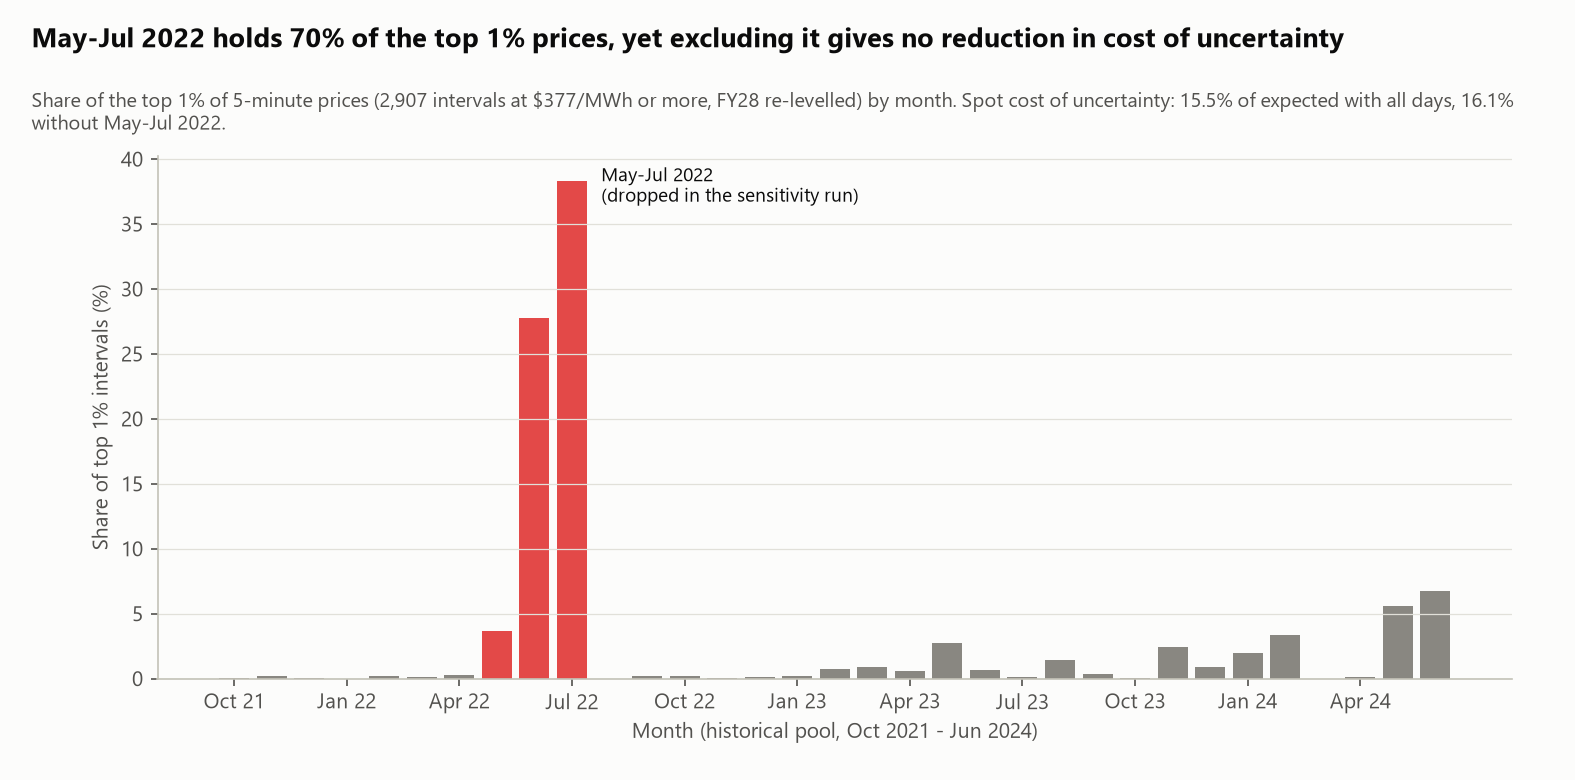
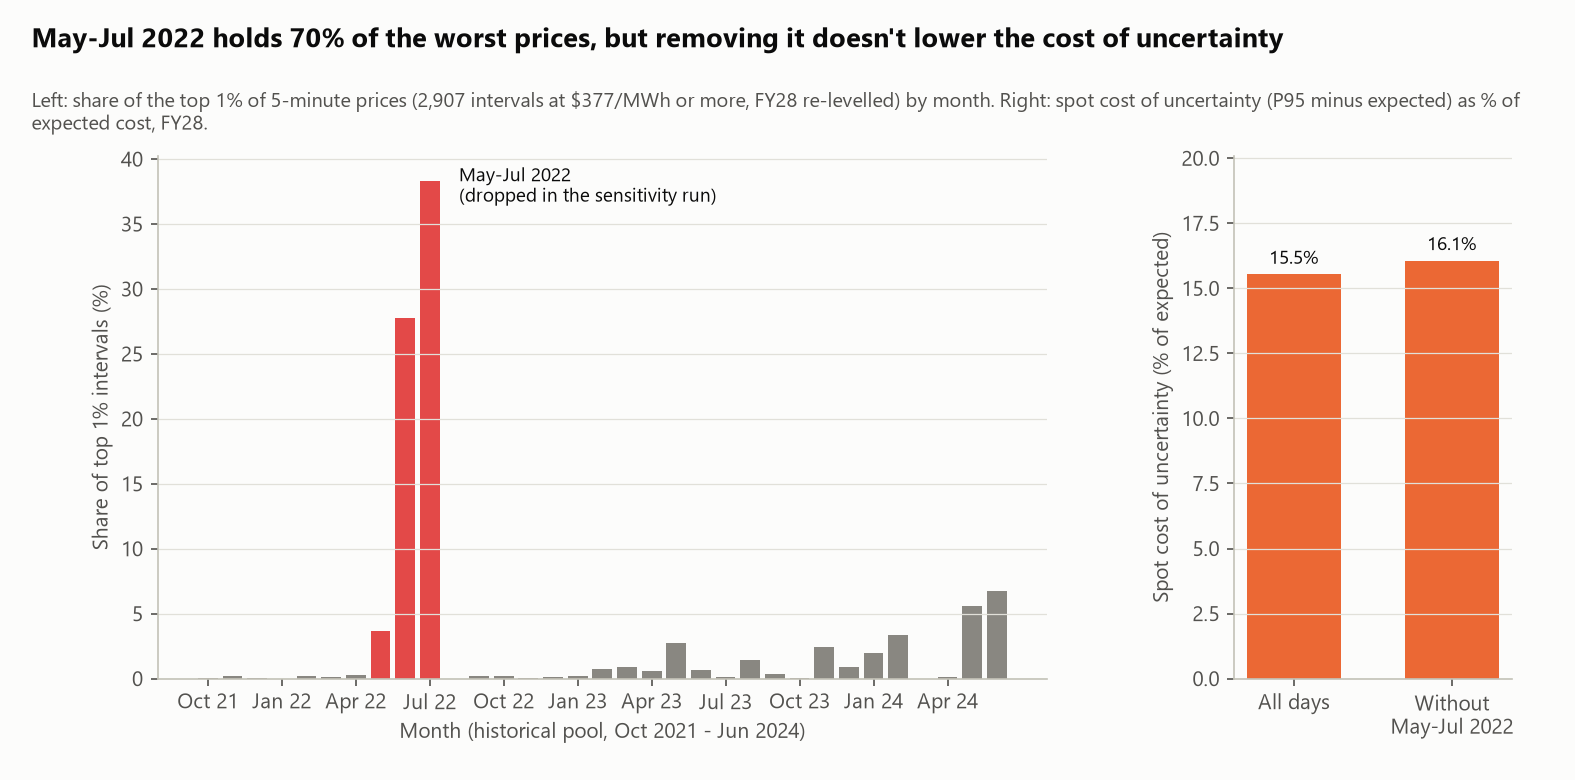
feat(viz): add cost-of-uncertainty panel to chart 6

diff --git a/src/viz.py b/src/viz.py
@@ -65,9 +65,12 @@ def read_table(name: str) -> pd.DataFrame:
     return pd.read_csv(TABLES_DIR / f"{name}.csv")
 
 
-def titled_figure(title: str, subtitle: str, size: tuple[float, float] = (9, 5.2)):
-    """Figure with a left-aligned takeaway title and a smaller subtitle that states the measure."""
-    fig, ax = plt.subplots(figsize=size)
+def titled_figure(title: str, subtitle: str, size: tuple[float, float] = (9, 5.2), **subplots):
+    """Figure with a left-aligned takeaway title and a smaller subtitle that states the measure.
+
+    subplots: passed to plt.subplots for multi-panel charts (e.g. ncols, width_ratios).
+    """
+    fig, ax = plt.subplots(figsize=size, **subplots)
     fig.subplots_adjust(top=0.80, left=0.10, right=0.96, bottom=0.13)
     fig.text(0.02, 0.965, title, fontsize=13, fontweight="bold", color=INK, va="top", wrap=True)
     fig.text(0.02, 0.885, subtitle, fontsize=9.5, color=INK_SECONDARY, va="top", wrap=True)
@@ -236,19 +239,20 @@ def ppa_strike_chart() -> None:
 
 
 def top_intervals_chart() -> None:
-    """Share of the top 1% price intervals by month, with the May-Jul 2022 crisis window highlighted."""
+    """Share of the top 1% price intervals by month, with the May-Jul 2022 crisis window highlighted,
+    next to spot cost of uncertainty with and without that window."""
     months = read_table("crisis_diagnostics")
     crisis = read_table("crisis_sensitivity").query("fy == @FY and strategy == 'spot'").set_index("pool")
     crisis_share = months.loc[months["in_crisis_window"], "share_of_top_intervals_pct"].sum()
-    fig, ax = titled_figure(
-        f"May-Jul 2022 holds {crisis_share:.0f}% of the top 1% prices, yet excluding it gives no reduction "
-        "in cost of uncertainty",
-        f"Share of the top 1% of 5-minute prices ({months['n_top_intervals'].sum():,} intervals at "
+    fig, (ax, ax_uncertainty) = titled_figure(
+        f"May-Jul 2022 holds {crisis_share:.0f}% of the worst prices, but removing it doesn't lower the "
+        "cost of uncertainty",
+        f"Left: share of the top 1% of 5-minute prices ({months['n_top_intervals'].sum():,} intervals at "
         f"${months['top_price_cut'].iloc[0]:.0f}/MWh or more, FY{FY % 100} re-levelled) by month. "
-        f"Spot cost of uncertainty: {crisis.loc['all_days', 'cost_of_uncertainty_pct']:.1f}% of expected "
-        f"with all days, {crisis.loc['excl_may_jul_2022', 'cost_of_uncertainty_pct']:.1f}% without May-Jul 2022.",
-        size=(10.5, 5.2),
+        f"Right: spot cost of uncertainty (P95 minus expected) as % of expected cost, FY{FY % 100}.",
+        size=(10.5, 5.2), ncols=2, width_ratios=[3.2, 1],
     )
+    fig.subplots_adjust(wspace=0.32)
     colours = [HIGHLIGHT if in_crisis else MUTED for in_crisis in months["in_crisis_window"]]
     ax.bar(range(len(months)), months["share_of_top_intervals_pct"], width=0.8, color=colours)
     labels = pd.PeriodIndex(months["month"], freq="M").strftime("%b %y")
@@ -259,6 +263,16 @@ def top_intervals_chart() -> None:
     peak = months["share_of_top_intervals_pct"].idxmax()
     ax.annotate("May-Jul 2022\n(dropped in the sensitivity run)", (peak, months.loc[peak, "share_of_top_intervals_pct"]),
                 xytext=(14, -10), textcoords="offset points", fontsize=9, color=INK)
+
+    pools = [("all_days", "All days"), ("excl_may_jul_2022", "Without\nMay-Jul 2022")]
+    shares = [crisis.loc[pool, "cost_of_uncertainty_pct"] for pool, _ in pools]
+    ax_uncertainty.bar(range(len(pools)), shares, width=0.6, color=STRATEGY_COLOURS["spot"])
+    for x, share in enumerate(shares):
+        ax_uncertainty.text(x, share + 0.4, f"{share:.1f}%", ha="center", fontsize=9, color=INK)
+    ax_uncertainty.set_xticks(range(len(pools)), [label for _, label in pools])
+    ax_uncertainty.grid(axis="x", visible=False)
+    ax_uncertainty.set_ylim(0, max(shares) * 1.25)
+    ax_uncertainty.set_ylabel("Spot cost of uncertainty (% of expected)")
     save(fig, "06_top_intervals_by_month")
 
 

diff --git a/reports/findings.md b/reports/findings.md
@@ -21,8 +21,8 @@ the bootstrap draws; P95 comes from 5,000 simulated years per FY. Charts are bui
    to $47.50M; NPV is -$14.62M at 8% (-$11.80M to -$16.87M) and payback is 29.5 years against a 15-year life.
 4. **Only sign a solar PPA below break-even.** Solar earns $53.41/MWh, 54% of the baseload price. A PPA lowers expected
    cost only at a strike below $53.41, or below $66.99 if settlement is suspended when spot is negative.
-5. **Bad years are not one crisis.** May-Jul 2022 holds 70% of the top 1% price intervals, but excluding it gives no
-   reduction in cost of uncertainty (15.5% of expected cost with all days, 16.1% without).
+5. **Excluding the 2022 crisis doesn't remove the risk.** May-Jul 2022 holds 70% of the top 1% price intervals, but
+   without it the cost of uncertainty doesn't fall (15.5% of expected cost with all days, 16.1% without).
 
 ## Headline figures, FY28-FY30
 
@@ -114,7 +114,7 @@ Every hedge level has the spot expected cost because the model prices futures fa
 - **Now what:** only negotiate a PPA that includes a negative-price suspension clause, with a strike below about
   $67/MWh for FY28 and $70/MWh for FY29-FY30.
 
-### 6. Bad years come from spikes spread across all years, not one crisis
+### 6. Excluding the 2022 crisis doesn't remove the risk
 
 ![Top 1% intervals by month](figures/06_top_intervals_by_month.png)
 
@@ -123,7 +123,9 @@ Every hedge level has the spot expected cost because the model prices futures fa
   15.5% of expected cost with all days, 16.1% without. (`crisis_diagnostics.csv`, `crisis_sensitivity.csv`)
 - **So what:** the crisis was a sustained high price level held down by the $300 administered cap, which
   re-levelling scales down. The bad-year tail is associated with short, extreme spikes that occur in every year
-  of the pool (for example May 2024 and Feb 2024).
+  of the pool (for example June, May and February 2024). Part of this result may come from re-levelling each
+  year separately: without May-Jul 2022, the rest of FY22 and FY23 is scaled up to the futures price, which
+  stretches its spikes (see [Limitations](#limitations)).
 - **Now what:** don't treat 2022 as a one-off that makes spot safe again; the case for hedging holds without it.
 
 ## Why this differs from the original capstone analysis

diff --git a/README.md b/README.md
@@ -22,8 +22,9 @@ solar PPA at the assumed $65/MWh strike, both cost more than spot.
    (-$11.80M to -$16.87M across the sensitivities), and payback is 29.5 years against a 15-year life.
 4. **Only sign a solar PPA below break-even.** Solar earns $53.41/MWh, 54% of the baseload price. A PPA lowers
    expected cost only at a strike below $53.41, or below $66.99 if settlement is suspended when spot is negative.
-5. **Bad years are not one crisis.** May-Jul 2022 holds 70% of the top 1% price intervals, but excluding those
-   months gives no reduction in cost of uncertainty (15.5% of expected cost with all days, 16.1% without).
+5. **Excluding the 2022 crisis doesn't remove the risk.** May-Jul 2022 holds 70% of the top 1% price intervals,
+   but without those months the cost of uncertainty doesn't fall (15.5% of expected cost with all days, 16.1%
+   without).
 
 All figures are for FY28. Battery figures include $2.98M a year of equivalent capex and O&M (8%, 15 years).
 FY29-FY30 results and the hypothesis verdicts are in [the findings report](reports/findings.md).
@@ -76,10 +77,11 @@ against the $99.44/MWh futures price.
 Solar output peaks when spot prices are negative, so whether the contract pays out in those intervals matters as
 much as the strike itself.
 
-![May-Jul 2022 holds 70% of the top 1% prices, yet excluding it gives no reduction in cost of uncertainty](reports/figures/06_top_intervals_by_month.png)
+![May-Jul 2022 holds 70% of the worst prices, but removing it doesn't lower the cost of uncertainty](reports/figures/06_top_intervals_by_month.png)
 
-The bad-year tail comes from short, extreme spikes in every year of the history, so the case for hedging holds
-without the 2022 crisis.
+The bad-year tail also comes from short, extreme spikes in other years, so the case for hedging holds without the
+2022 crisis. Part of this result may come from re-levelling each year separately
+([Limitations](reports/findings.md#limitations)).
 
 ## Approach
 
